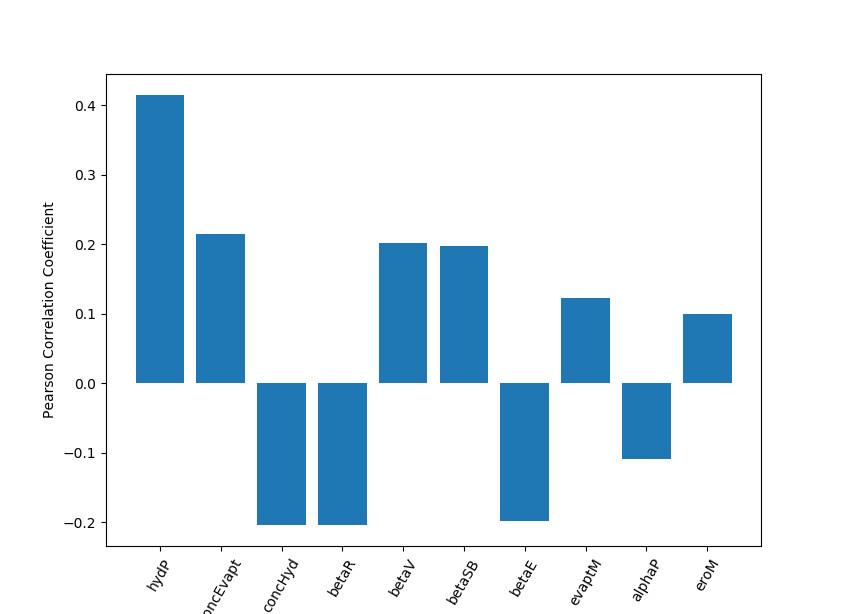
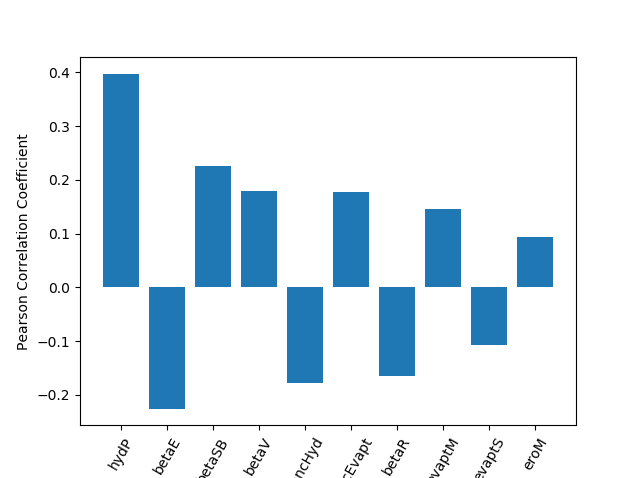
Updated correlations

diff --git a/mangrove-peat-salt/modelFullvary2.py b/mangrove-peat-salt/modelFullvary2.py
@@ -95,6 +95,7 @@ growM = random.uniform(0, 1, n)
 growS = random.uniform(-2,0.0,n)
 
 evaptM = random.uniform(0,1,n)
+
 precipBeta = random.uniform(0,0.3,n) #https://journals.ametsoc.org/doi/abs/10.1175/1520-0442%281993%29006%3C1077%3AEOCPR%3E2.0.CO%3B2
 
 propPrecip = random.uniform(r0,3,n)
@@ -137,7 +138,6 @@ decrS = random.uniform(r0,r1,n)
 decrPrecip = random.uniform(r0,r1,n)
 
 evaptS = random.uniform(-2,0,n)
-evaptM = random.uniform(r0,r1,n)
 
 
 def stability(eigs):

diff --git a/mangrove-peat-salt/parameterDefaults.py b/mangrove-peat-salt/parameterDefaults.py
@@ -55,14 +55,14 @@ growS0 = -1
 
 propPrecip = 1.5
 growPrecip = 1
-evaptM = 0.8
+evaptM = 0.5
 precipBeta = 0.2
 
 drownHyd0 = 0.5
 drownM0 = 1
 
 stressM0 = 1
-stressS0 = 0.5
+stressS0 = 2
 
 littM0 = 1
 
